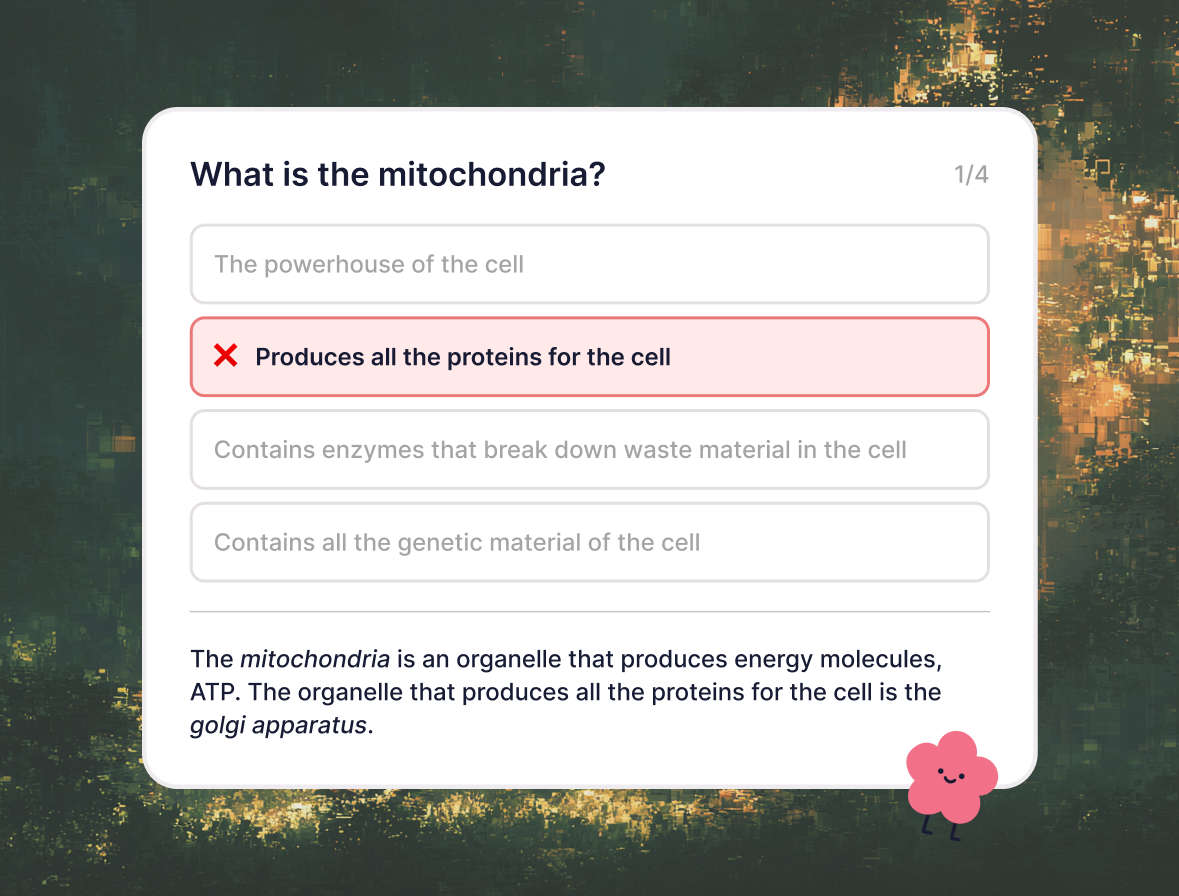
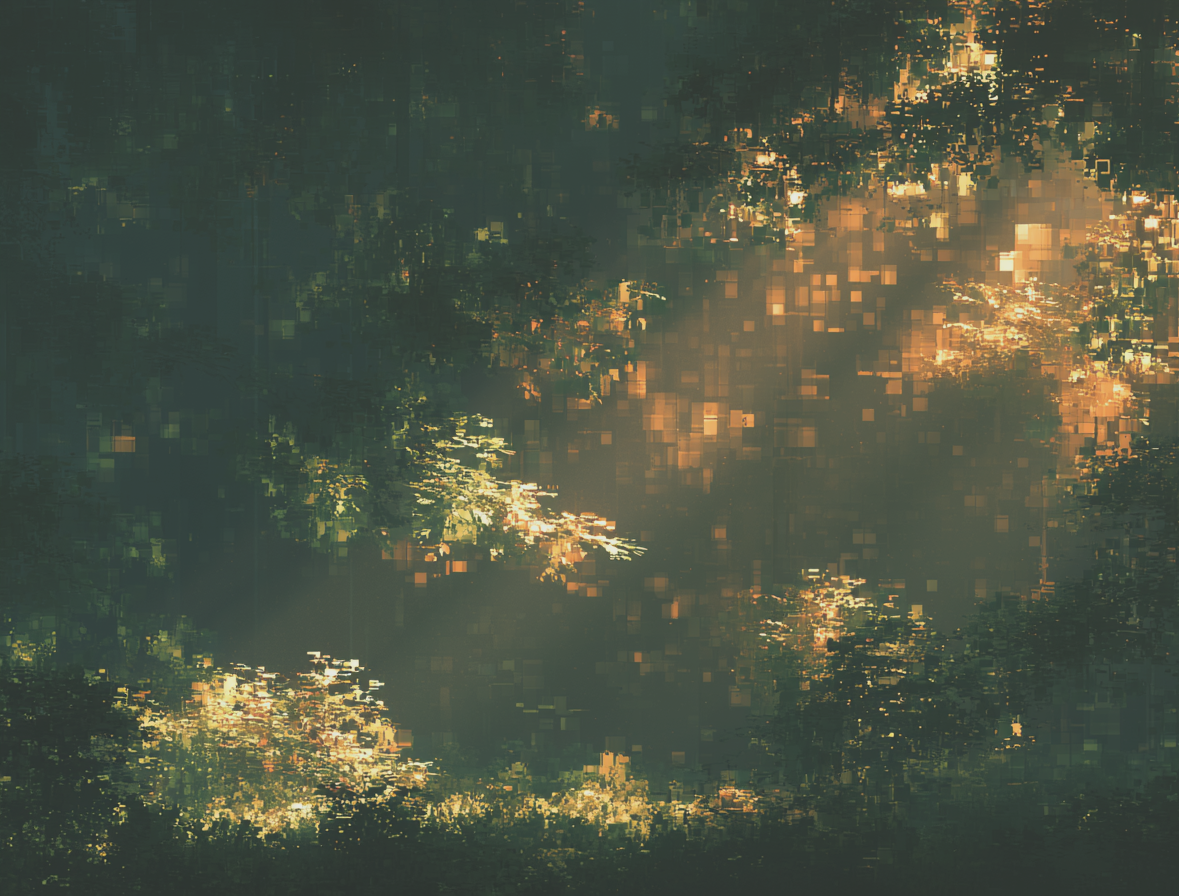
Split work card art into independent background + mockup layers
Backgrounds render as a plain object-cover fill; UI mockups are a
separate fixed-size layer with a per-project collapsed offset, so
peek distance is explicitly controllable instead of depending on
each flat cover's internal layout, and mockups center on expand.

diff --git a/src/components/WorkCards.tsx b/src/components/WorkCards.tsx
@@ -8,8 +8,17 @@ export type Project = {
   title: string;
   status: string;
   description: string;
-  image?: string;
+  background?: string;
+  mockup?: string;
+  /** Left position (px) of the mockup within the collapsed 200px card. */
+  mockupOffset?: number;
 };
+
+const CARD_EXPANDED_WIDTH = 600;
+const MOCKUP_WIDTH = 340;
+const MOCKUP_HEIGHT = 400;
+const MOCKUP_EXPANDED_LEFT = (CARD_EXPANDED_WIDTH - MOCKUP_WIDTH) / 2;
+const CARD_TRANSITION = { duration: 0.75, ease: [0.65, 0, 0.35, 1] as const };
 
 export function WorkCards({ projects }: { projects: Project[] }) {
   const [activeIndex, setActiveIndex] = useState<number | null>(null);
@@ -38,18 +47,38 @@ export function WorkCards({ projects }: { projects: Project[] }) {
             <motion.div
               key={project.title}
               onMouseEnter={() => setActiveIndex(index)}
-              animate={{ width: expanded ? 600 : 200 }}
-              transition={{ duration: 0.75, ease: [0.65, 0, 0.35, 1] }}
+              animate={{ width: expanded ? CARD_EXPANDED_WIDTH : 200 }}
+              transition={CARD_TRANSITION}
               className="relative h-[456px] shrink-0 overflow-hidden rounded-lg bg-[#d9d9d9]"
             >
-              {project.image && (
+              {project.background && (
                 <Image
-                  src={project.image}
-                  alt={project.title}
+                  src={project.background}
+                  alt=""
                   fill
                   sizes="600px"
-                  className="object-cover object-left"
+                  className="object-cover"
                 />
+              )}
+              {project.mockup && (
+                <motion.div
+                  animate={{
+                    left: expanded
+                      ? MOCKUP_EXPANDED_LEFT
+                      : (project.mockupOffset ?? 0),
+                  }}
+                  transition={CARD_TRANSITION}
+                  className="absolute top-1/2 -translate-y-1/2"
+                  style={{ width: MOCKUP_WIDTH, height: MOCKUP_HEIGHT }}
+                >
+                  <Image
+                    src={project.mockup}
+                    alt={`${project.title} interface`}
+                    fill
+                    sizes={`${MOCKUP_WIDTH}px`}
+                    className="object-contain"
+                  />
+                </motion.div>
               )}
               <div className="absolute inset-0 bg-gradient-to-t from-black/40 to-transparent" />
               <div className="absolute inset-x-0 bottom-0 flex flex-col gap-1 p-4">

diff --git a/src/app/page.tsx b/src/app/page.tsx
@@ -1,11 +1,46 @@
 import { WorkCards, type Project } from "@/components/WorkCards";
 
 const projects: Project[] = [
-  { title: "Apple Trips", status: "Concept", description: "iOS-native trip planning", image: "/appleTripsCover.png" },
-  { title: "Trimble", status: "Shipped", description: "Global construction tooling", image: "/trimbleCover.png" },
-  { title: "Voxel", status: "Shipped", description: "Voice AI for healthcare", image: "/voxelCover.png" },
-  { title: "Nova", status: "Shipped", description: "Offline international learning", image: "/novaCover.png" },
-  { title: "NRG Experiential", status: "Shipped", description: "Tech brand activations", image: "/nrgCover.png" },
+  {
+    title: "Apple Trips",
+    status: "Concept",
+    description: "iOS-native trip planning",
+    background: "/appleTripsCover.png",
+    mockup: "/appleTripUI.png",
+    mockupOffset: 0,
+  },
+  {
+    title: "Trimble",
+    status: "Shipped",
+    description: "Global construction tooling",
+    background: "/trimbleCover.png",
+    mockup: "/trimbleUI.png",
+    mockupOffset: 0,
+  },
+  {
+    title: "Voxel",
+    status: "Shipped",
+    description: "Voice AI for healthcare",
+    background: "/voxelCover.png",
+    mockup: "/voxelUI.png",
+    mockupOffset: 0,
+  },
+  {
+    title: "Nova",
+    status: "Shipped",
+    description: "Offline international learning",
+    background: "/novaCover.png",
+    mockup: "/novaUI.png",
+    mockupOffset: 0,
+  },
+  {
+    title: "NRG Experiential",
+    status: "Shipped",
+    description: "Tech brand activations",
+    background: "/nrgCover.png",
+    mockup: "/nrgUI.png",
+    mockupOffset: 0,
+  },
 ];
 
 function NavItem({ label, active }: { label: string; active?: boolean }) {
